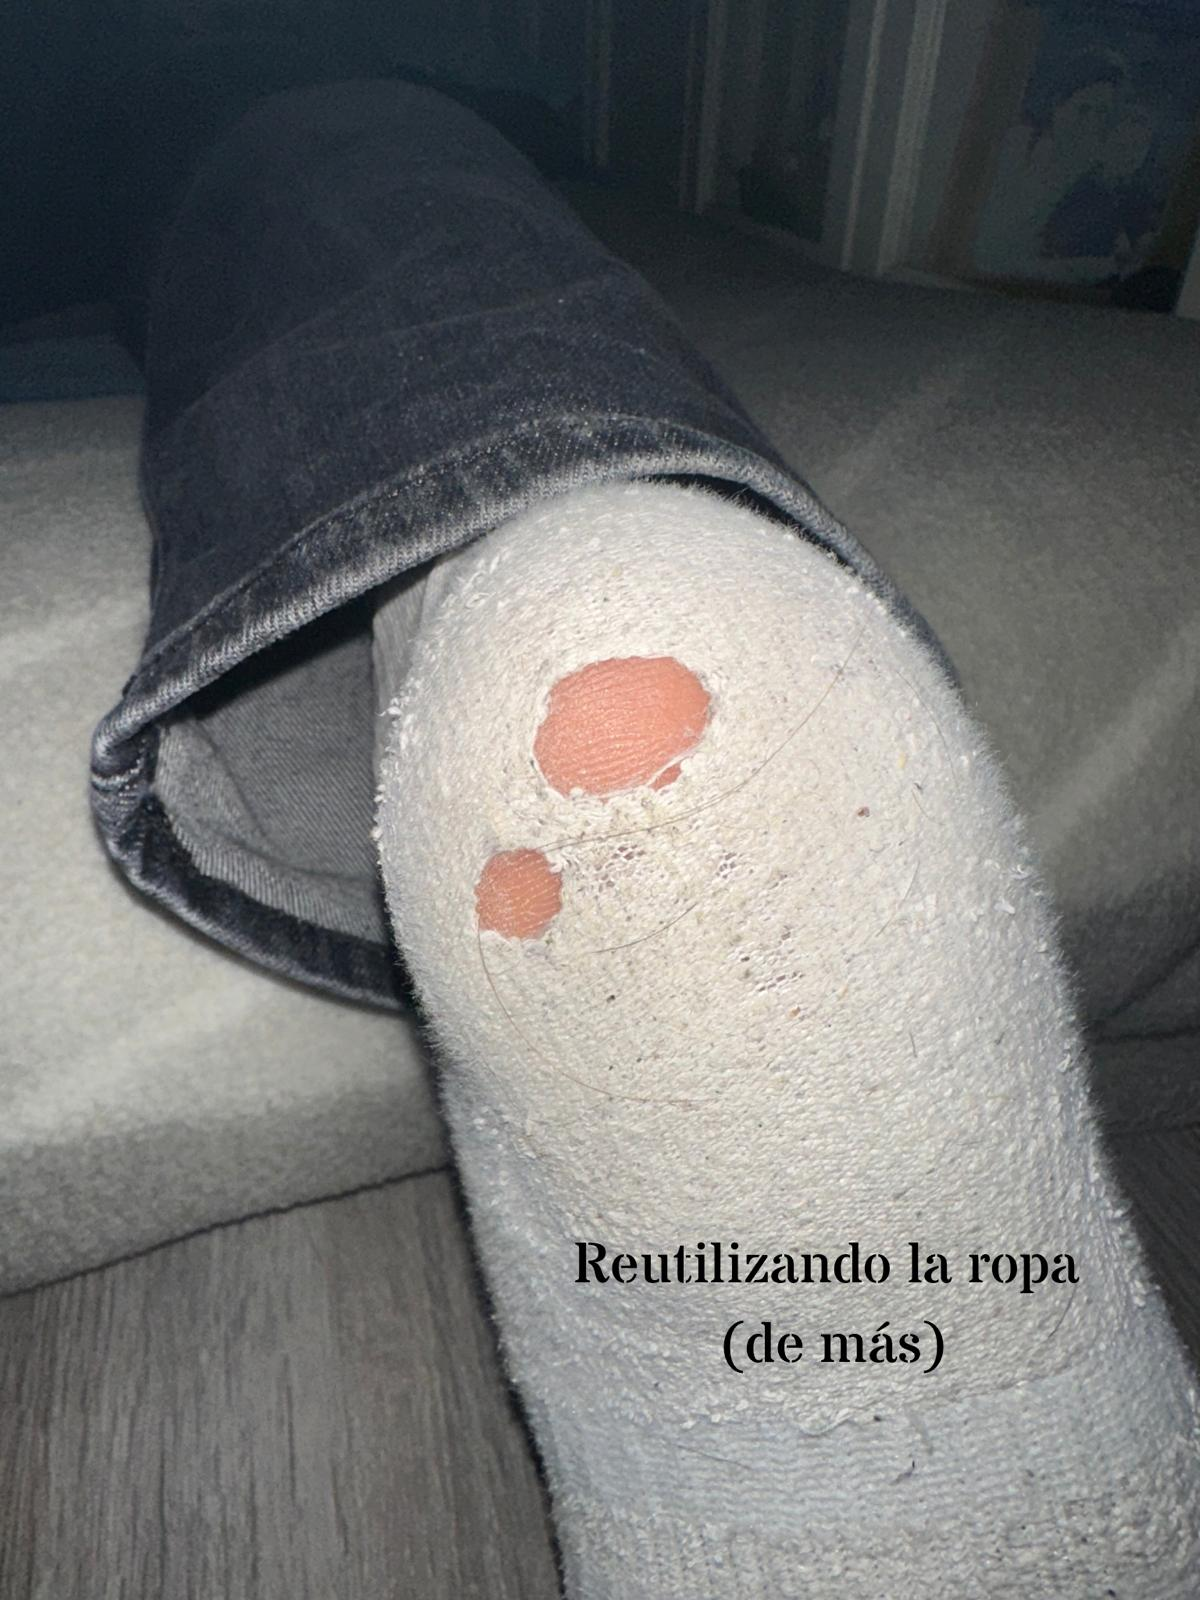
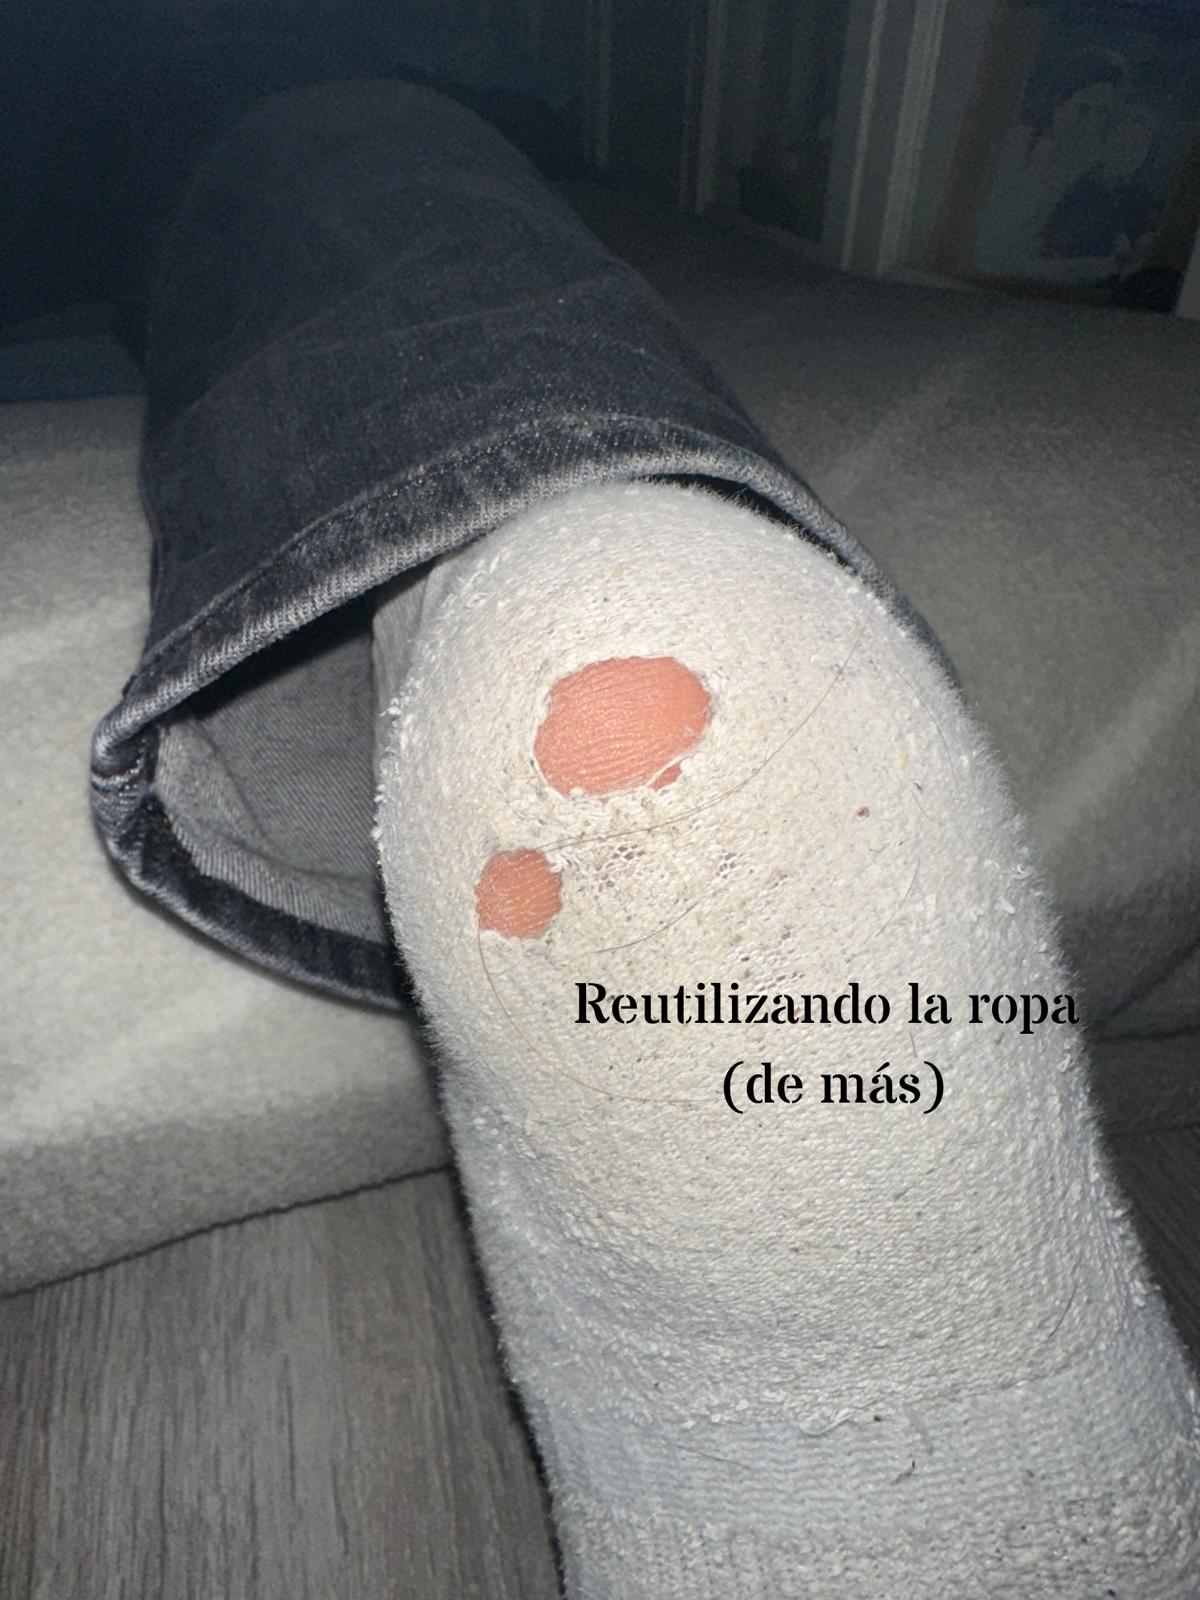
live

Changed region(s): [[0.4625, 0.7812, 0.8942, 0.875], [0.4625, 0.5938, 0.8942, 0.6875]]

diff --git a/index.html b/index.html
@@ -971,7 +971,7 @@ footer { background: var(--azul-cielo); color: #ffffff; text-align: center; padd
       <div class="bienvenida-deco"><div class="bienvenida-deco-d"></div></div>
       <img class="bienvenida-foto" src="fotos/pedida.jpeg" alt="La pedida" loading="lazy"
            onerror="if(!this.dataset.p){this.dataset.p=1;this.src='fotos/pedida.png';}else{this.style.display='none';}">
-      <p class="bienvenida-dedic">Nuestra historia comenzó hace mucho años, y a base de pequeños momentos y recuerdos se ha convetido en nuestro cuento favorito. En cada capítulo, hemos descubierto que el amor es compartir momentos con los tuyos.<br>Gracias por compatir el camino con nosotros.</p>
+      <p class="bienvenida-dedic">Nuestra historia comenzó hace mucho años, y a base de pequeños momentos y recuerdos se ha convetido en nuestro cuento favorito. En cada capítulo, hemos descubierto que el amor es compartir momentos con los tuyos.<br>Gracias por construir este camino con nosotros.</p>
       <div class="bienvenida-msg" id="welcomeMsg"></div>
     </div>
   </div>
